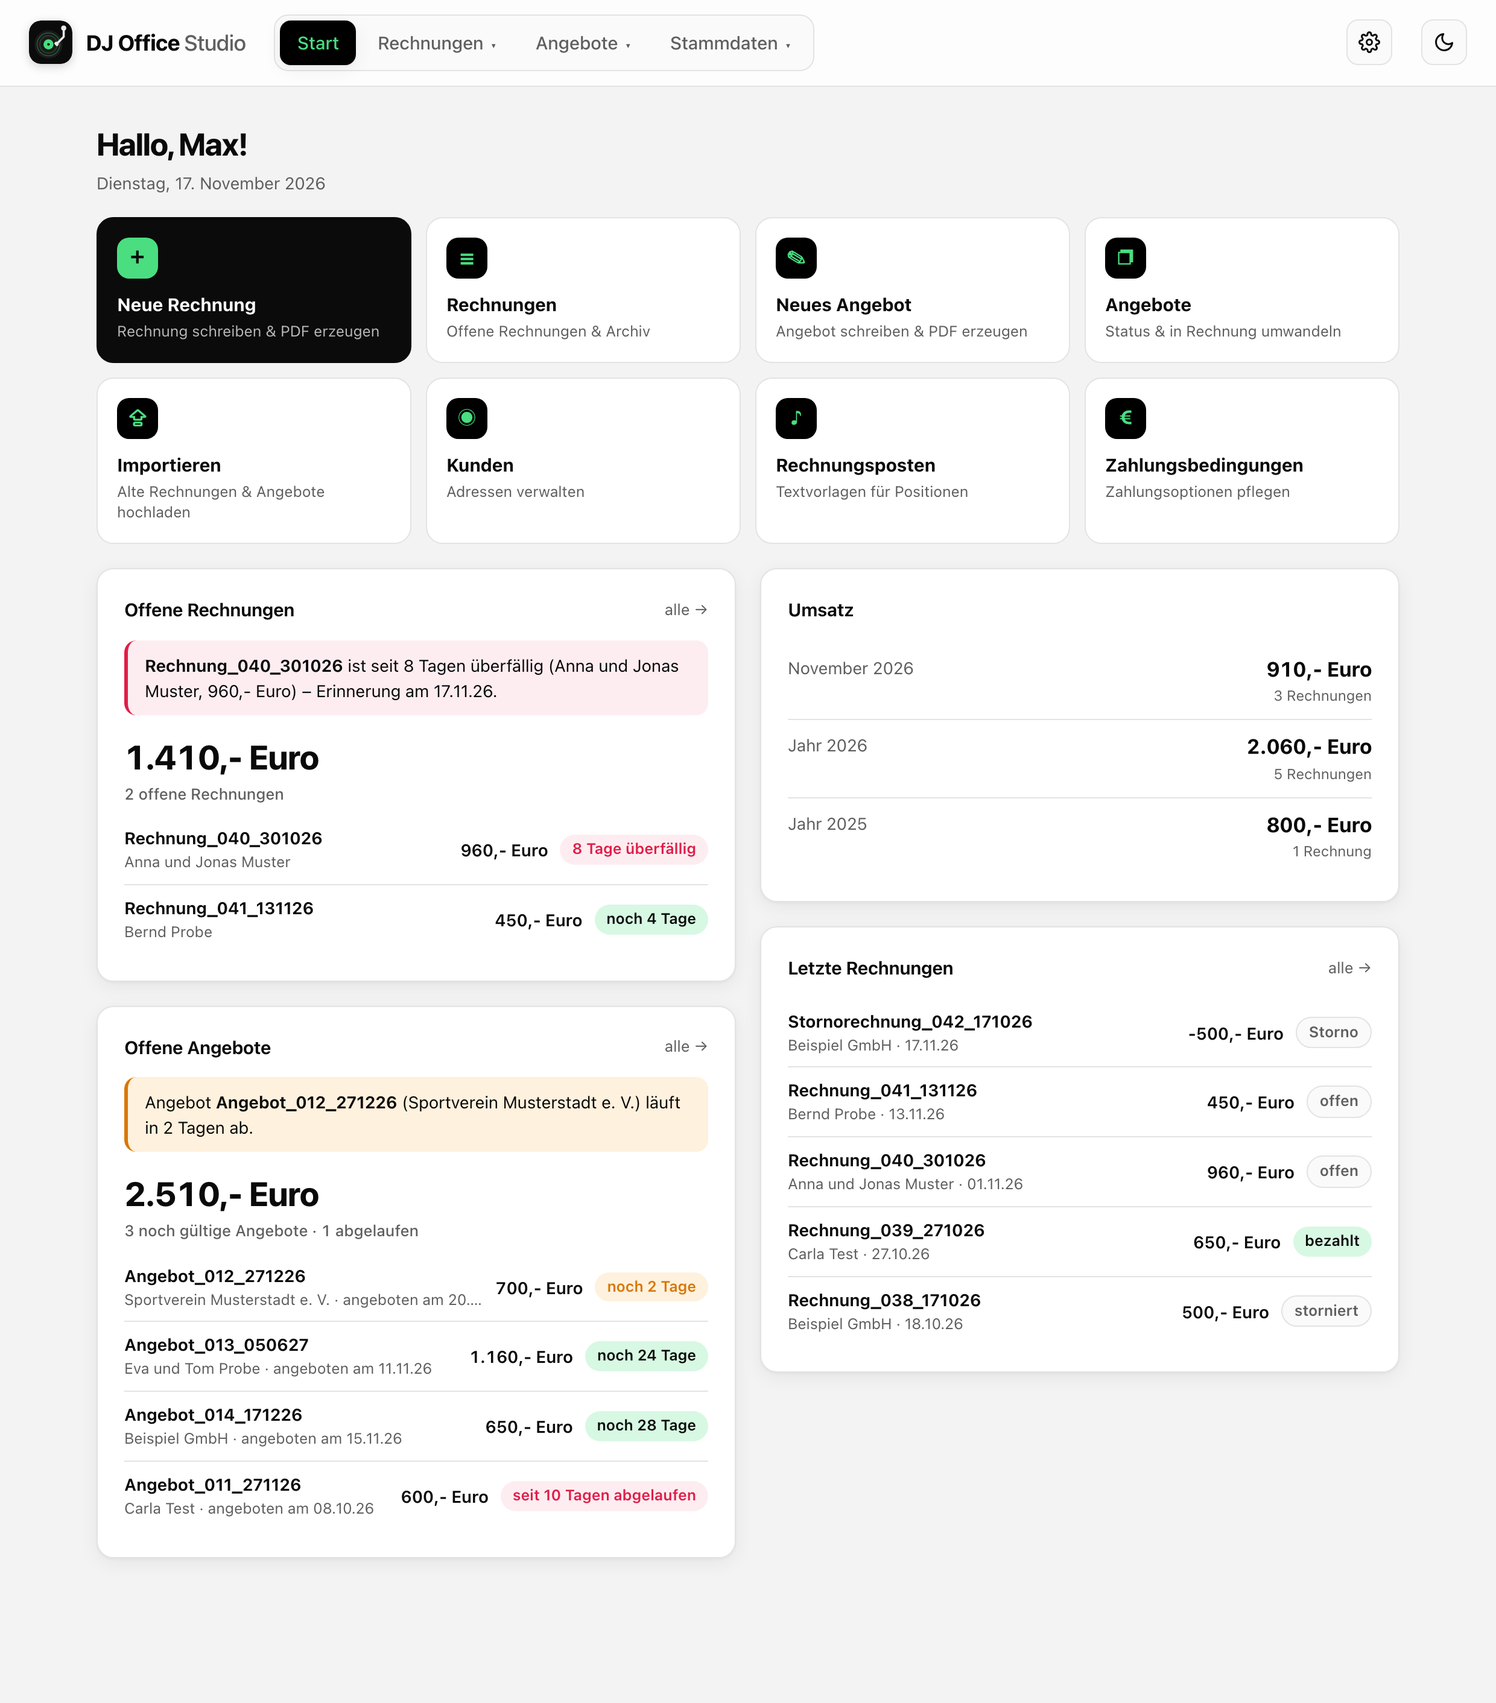
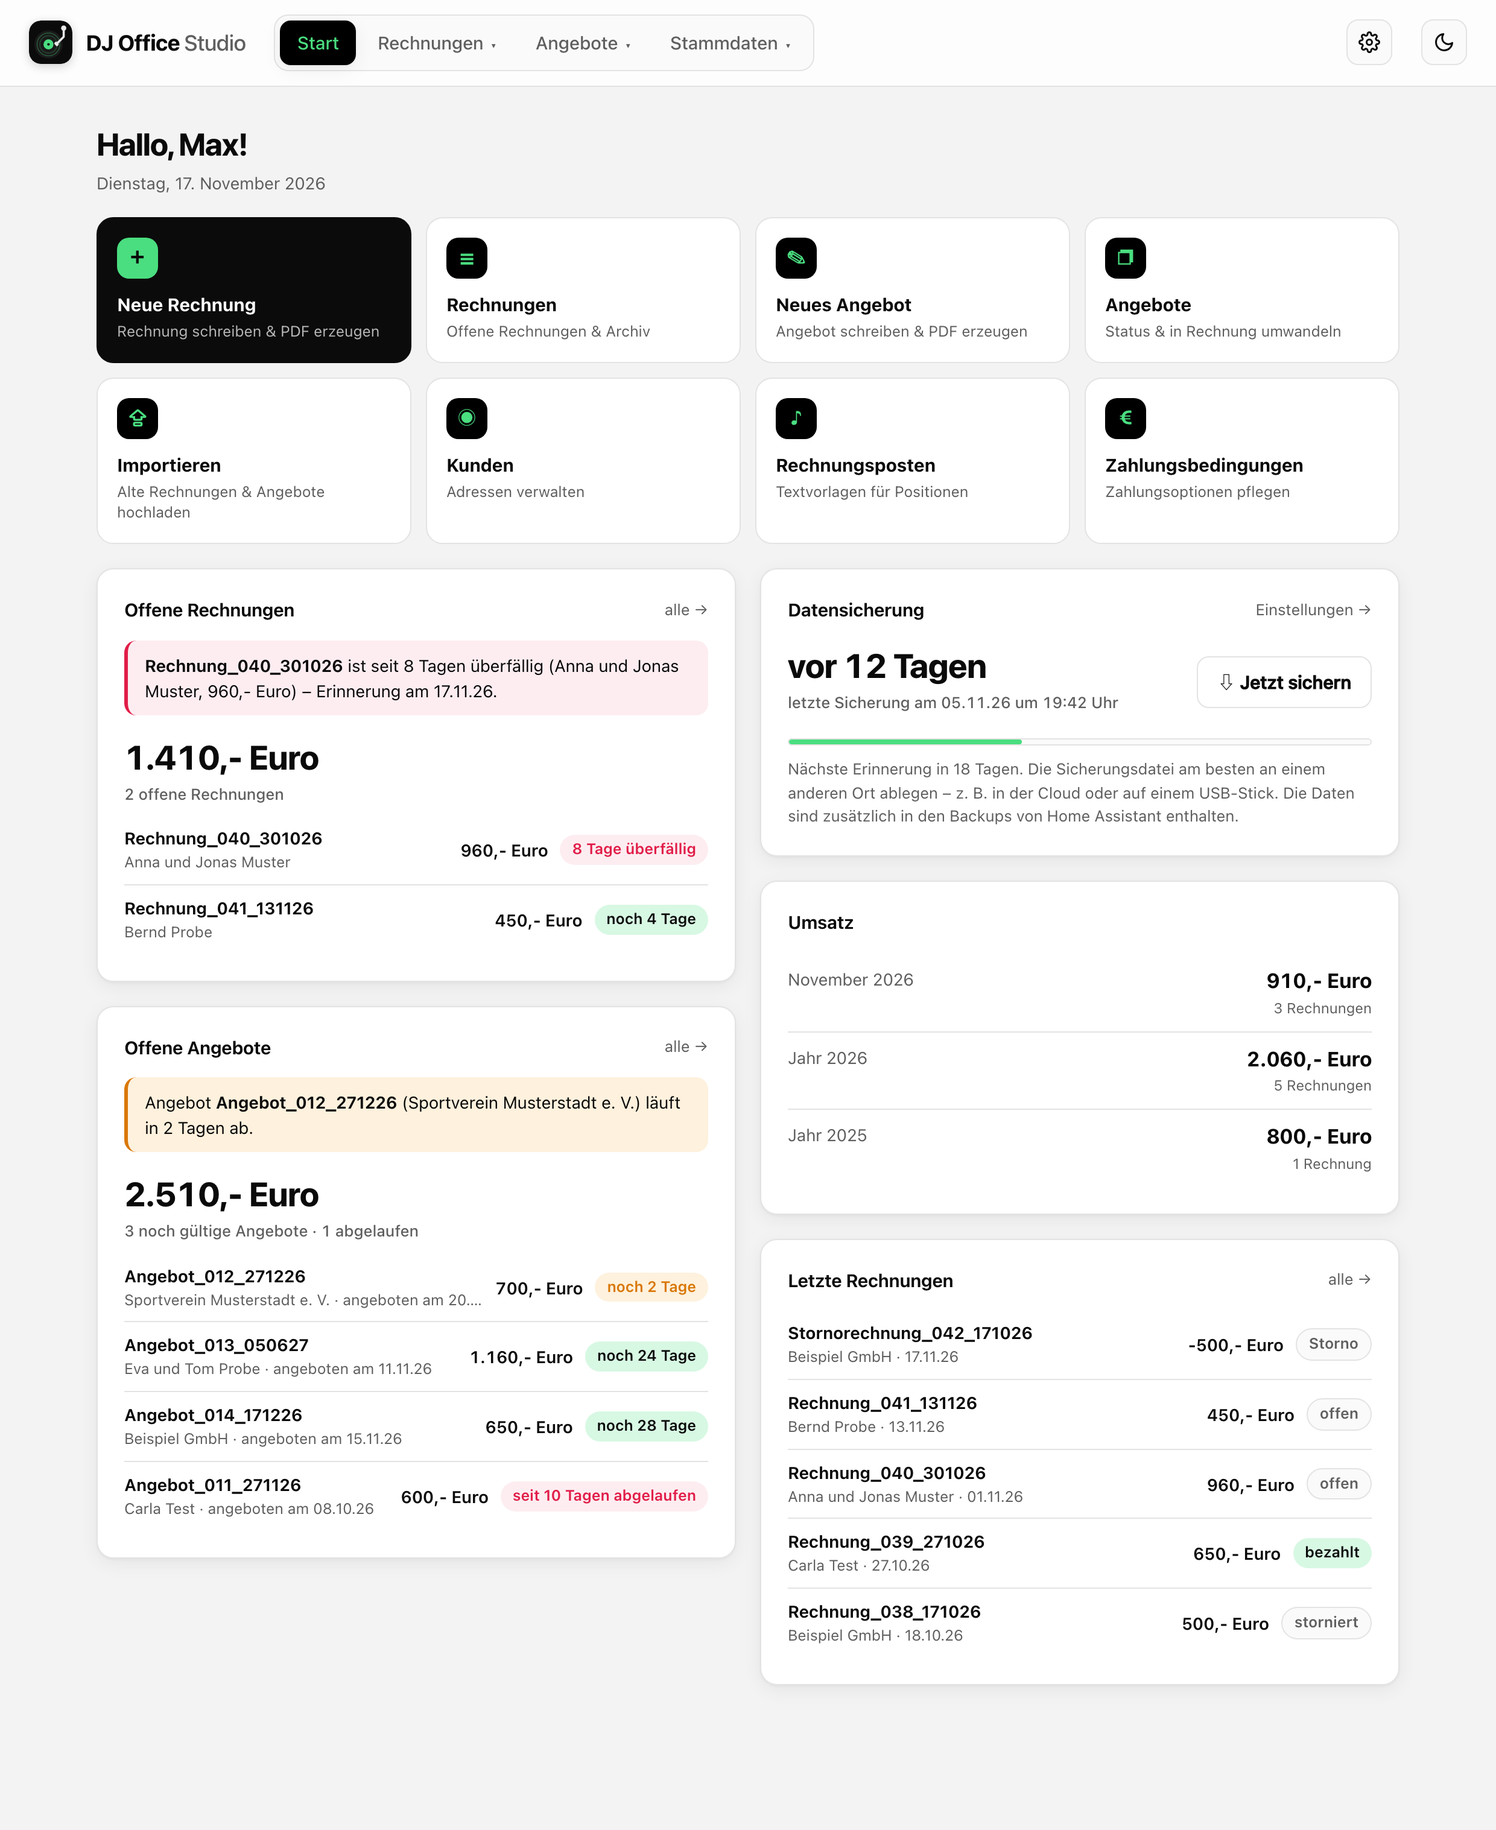
Startseite erinnert an Datensicherungen (Zeit seit letzter Sicherung, einstellbares Intervall), Version 0.14.0

diff --git a/rechnungen/app/static/app.js b/rechnungen/app/static/app.js
@@ -275,10 +275,16 @@ $("#mail-test").addEventListener("click", async e => {
   finally { btn.disabled = false; btn.innerHTML = vorher; }
 });
 
-$("#sicherung-btn").addEventListener("click", () => {
+/* Sicherung herunterladen; der Server merkt sich den Zeitpunkt → Startseite aktualisieren */
+function sicherungHerunterladen() {
   ladeHerunter("api/backup");
-  toast("Sicherung wird heruntergeladen …");
-});
+  toast("Sicherung wird heruntergeladen … Am besten an einem anderen Ort ablegen (Cloud, USB-Stick).");
+  setTimeout(async () => {
+    await ladeAbsender();
+    if ($("#tab-start").classList.contains("active")) renderSicherung();
+  }, 1500);
+}
+$("#sicherung-btn").addEventListener("click", sicherungHerunterladen);
 $("#export-btn").addEventListener("click", () => {
   ladeHerunter(`api/export?jahr=${$("#export-jahr").value}`);
   toast(`Export ${$("#export-jahr").value} wird heruntergeladen …`);
@@ -1645,6 +1651,35 @@ $("#tab-start").addEventListener("click", e => {
   }
 });
 
+const tageSeit = iso => Math.max(0, Math.round((heuteUtc() - isoToUtc(iso.slice(0, 10))) / TAG_MS));
+const tageText = n => n === 0 ? "heute" : n === 1 ? "gestern" : `vor ${n} Tagen`;
+
+/* Startseite: Zeit seit der letzten heruntergeladenen Sicherung, Erinnerung wenn fällig */
+function renderSicherung() {
+  const s = state.absender?.sicherung;
+  if (!s) return;
+  const intervall = Number(s.erinnerung_tage) || 0;
+  const hatDaten = state.rechnungen.length || state.angebote.length;
+  const tage = s.letzte ? tageSeit(s.letzte) : null;
+  const stufe = tage === null ? (hatDaten && intervall ? "rot" : "neutral")
+    : !intervall ? "gruen" : tage >= intervall ? "rot" : tage >= intervall * 0.75 ? "gelb" : "gruen";
+  const faellig = stufe === "rot";
+  $("#start-sicherung-karte").classList.toggle("faellig", faellig);
+  const auto = s.automatisch
+    ? `Automatische Tageskopie auf diesem Computer: ${tageText(tageSeit(s.automatisch))} ✓ – sie hilft aber nicht, wenn der Computer kaputtgeht oder verloren geht.`
+    : state.absender.desktop ? "" : "Die Daten sind zusätzlich in den Backups von Home Assistant enthalten.";
+  $("#start-sicherung").innerHTML = `
+    <div class="sicherung-status">
+      <div class="stat-gross ${stufe}">${tage === null ? "noch nie" : tageText(tage)}<small>${tage === null
+        ? "wurde eine Sicherung heruntergeladen" : `letzte Sicherung am ${fmtDate(s.letzte.slice(0, 10))} um ${s.letzte.slice(11, 16)} Uhr`}</small></div>
+      <button type="button" class="${faellig ? "" : "secondary"}" id="start-sichern">⇩ Jetzt sichern</button>
+    </div>
+    ${intervall && tage !== null ? `<div class="sicherung-balken ${stufe}" title="Erinnerung nach ${intervall} Tagen"><span style="width:${Math.min(100, tage / intervall * 100)}%"></span></div>` : ""}
+    <p class="hint">${faellig ? `<b>Zeit für eine neue Sicherung!</b> ` : intervall && tage !== null
+      ? `Nächste Erinnerung in ${intervall - tage} ${intervall - tage === 1 ? "Tag" : "Tagen"}. ` : ""}Die Sicherungsdatei am besten an einem anderen Ort ablegen – z. B. in der Cloud oder auf einem USB-Stick. ${auto}</p>`;
+  $("#start-sichern").addEventListener("click", sicherungHerunterladen);
+}
+
 async function renderStart() {
   const jetzt = new Date();
   const h = jetzt.getHours();
@@ -1655,9 +1690,10 @@ async function renderStart() {
     { weekday: "long", day: "numeric", month: "long", year: "numeric" });
 
   try {
-    [state.rechnungen, state.angebote] = await Promise.all([api("rechnungen"), api("angebote")]);
+    [state.rechnungen, state.angebote] = await Promise.all([api("rechnungen"), api("angebote"), ladeAbsender()]);
   } catch (e) { return toast("Laden fehlgeschlagen: " + e.message, true); }
   const alle = state.rechnungen;
+  renderSicherung();
 
   // Offene Angebote (Kurzfassung)
   const offeneAng = offeneAngebote();

diff --git a/rechnungen/app/static/style.css b/rechnungen/app/static/style.css
@@ -466,3 +466,15 @@ dialog.dialog h2 { margin-top: 0; }
 .versand-alternativ span { flex: 1; min-width: 180px; }
 button svg.ico { vertical-align: -3px; }
 #passwort-status a { color: var(--text); }
+
+/* ---------- Startseite: Datensicherung ---------- */
+.sicherung-status { display: flex; align-items: center; justify-content: space-between; gap: 12px; flex-wrap: wrap; }
+.sicherung-status .stat-gross.rot { color: var(--danger); }
+.sicherung-karte.faellig { border-color: var(--danger); box-shadow: 0 0 0 3px var(--danger-soft), var(--shadow); }
+.sicherung-balken { height: 6px; border-radius: 999px; background: var(--input-bg); border: 1px solid var(--border); overflow: hidden; margin: 12px 0 4px; }
+.sicherung-balken span { display: block; height: 100%; border-radius: 999px; background: var(--neon); }
+.sicherung-balken.gelb span { background: var(--gelb); }
+.sicherung-balken.rot span { background: var(--danger); }
+.sicherung-karte .hint { margin-top: 10px; }
+#tab-einstellungen .sicherung label.erinnerung { margin: 14px 0 0; }
+#tab-einstellungen .sicherung label.erinnerung input { width: 110px; display: block; }

diff --git a/rechnungen/app/static/index.html b/rechnungen/app/static/index.html
@@ -128,6 +128,10 @@
         </div>
 
         <div class="start-spalte">
+          <div class="card sicherung-karte" id="start-sicherung-karte">
+            <div class="row between"><h2>Datensicherung</h2><a href="#" class="mehr zu-einstellungen">Einstellungen →</a></div>
+            <div id="start-sicherung"></div>
+          </div>
           <div class="card">
             <h2>Umsatz</h2>
             <div id="start-umsatz" class="stat-liste"></div>
@@ -405,6 +409,8 @@
                 <button type="button" id="wiederherstellen-btn" class="secondary">⇪ Sicherung einspielen</button>
                 <input type="file" id="sicherung-datei" accept=".zip,.db" hidden>
               </div>
+              <label class="erinnerung">Auf der Startseite an eine Sicherung erinnern nach <span class="opt">(Tagen, 0 = nie)</span>
+                <input name="sicherung_erinnerung_tage" type="number" min="0" step="1"></label>
             </div>
             <div>
               <strong>Export für den Steuerberater</strong>

diff --git a/rechnungen/app/main.py b/rechnungen/app/main.py
@@ -43,6 +43,7 @@ FELDER = {
     "paperless_eingangsordner": (str, "" if DESKTOP else "/share/paperless/consume"),
     "update_pruefen": (bool, True),   # nur Desktop-Version: beim Start nach neuer Version suchen
     "mahnfrist_tage": (int, 7),       # Frist in Zahlungserinnerung/Mahnung (Tage ab Datum)
+    "sicherung_erinnerung_tage": (int, 30),   # Startseite erinnert an eine Sicherung nach so vielen Tagen (0 = nie)
     # E-Mail-Versand über das eigene Postfach (beliebiger Anbieter / eigener Server)
     "absender_email": (str, ""), "smtp_server": (str, ""), "smtp_port": (int, 587),
     "smtp_sicherheit": (str, "starttls"), "smtp_benutzer": (str, ""), "smtp_passwort": (str, ""),
@@ -150,8 +151,8 @@ def settings_put():
             except (TypeError, ValueError):
                 fehler.append(f"„{k}“ muss eine Zahl sein")
                 continue
-            if werte[k] < 1:
-                fehler.append(f"„{k}“ muss mindestens 1 sein")
+            if werte[k] < (0 if k == "sicherung_erinnerung_tage" else 1):
+                fehler.append(f"„{k}“ muss mindestens {0 if k == 'sicherung_erinnerung_tage' else 1} sein")
         elif k.startswith("mail_text_"):
             werte[k] = (v or "").rstrip() if (v or "").strip() else standard   # leere Vorlage → Standardtext
         else:
@@ -228,6 +229,7 @@ def get_absender():
                       "paperless": bool(a.get("paperless_installiert")),
                       "angebot_gueltigkeit_tage": a.get("angebot_gueltigkeit_tage") or 30,
                       "mail": mail.konfiguriert(a),
+                      "sicherung": _sicherung_status(a),
                       "version": APP_VERSION,
                       "desktop": DESKTOP})
 
@@ -497,6 +499,24 @@ def dunning_pdf(mahnung_id):
 
 # ---------- Datensicherung & Export ----------
 
+def _letzte_auto_sicherung():
+    """Desktop-Version: Datum der neuesten automatischen Tageskopie (Daten/Sicherungen/rechnungen_JJJJ-MM-TT.db)."""
+    if not DESKTOP:
+        return None
+    try:
+        namen = [n for n in os.listdir(os.path.join(db.DATA_DIR, "Sicherungen"))
+                 if re.fullmatch(r"rechnungen_\d{4}-\d{2}-\d{2}\.db", n)]
+    except OSError:
+        return None
+    return max(namen)[11:21] if namen else None
+
+
+def _sicherung_status(a):
+    return {"letzte": db.get_settings().get("_letzte_sicherung"),   # letzte heruntergeladene Sicherung
+            "erinnerung_tage": a.get("sicherung_erinnerung_tage", 30),
+            "automatisch": _letzte_auto_sicherung()}
+
+
 @app.get("/api/backup")
 def backup_download():
     """Komplette Datenbank als ZIP (Kunden, Rechnungen, Angebote, Einstellungen …)."""
@@ -509,6 +529,7 @@ def backup_download():
             zf.write(pfad, "rechnungen.db")
             zf.writestr("info.json", json.dumps({"app": "DJ Office Studio", "version": APP_VERSION,
                                                  "erstellt": datetime.now().isoformat(timespec="seconds")}))
+    db.save_settings({"_letzte_sicherung": datetime.now().isoformat(timespec="seconds")})   # für die Erinnerung
     name = f"DJ-Office-Studio-Sicherung_{date.today():%Y-%m-%d}.zip"
     return Response(buf.getvalue(), mimetype="application/zip",
                     headers={"Content-Disposition": f'attachment; filename="{name}"'})
@@ -539,7 +560,10 @@ def backup_restore():
         os.makedirs(ordner, exist_ok=True)
         vorher = os.path.join(ordner, f"vor-wiederherstellung_{datetime.now():%Y-%m-%d_%H-%M-%S}.db")
         db.sichern(vorher)
+        letzte = db.get_settings().get("_letzte_sicherung")
         db.wiederherstellen(pfad)
+        if letzte and letzte > (db.get_settings().get("_letzte_sicherung") or ""):
+            db.save_settings({"_letzte_sicherung": letzte})   # Zeitpunkt der letzten Sicherung nicht zurückdrehen
     return jsonify({"anzahl": anzahl, "vorher_gesichert": vorher})
 
 

diff --git a/tests/test_sicherung_export.py b/tests/test_sicherung_export.py
@@ -65,3 +65,30 @@ def test_export_fuer_steuerberater(client):
     assert "030" not in daten
     summe = next(z for z in zeilen if z and z[0].startswith("Summe"))
     assert summe[5] == "1410,00"   # 960 + 450 + 300 - 300
+
+
+def test_erinnerung_merkt_letzte_sicherung(client):
+    s = client.get("/api/absender").get_json()["sicherung"]
+    assert s == {"letzte": None, "erinnerung_tage": 30, "automatisch": None}
+    sicherung = client.get("/api/backup").data
+    letzte = client.get("/api/absender").get_json()["sicherung"]["letzte"]
+    assert letzte and letzte[:10] == __import__("datetime").date.today().isoformat()
+    # Einspielen einer (älteren) Sicherung dreht den Zeitpunkt nicht zurück
+    import db
+    db.save_settings({"_letzte_sicherung": "2099-01-01T10:00:00"})
+    client.post("/api/backup", data={"datei": (io.BytesIO(sicherung), "s.zip")}, content_type="multipart/form-data")
+    assert client.get("/api/absender").get_json()["sicherung"]["letzte"] == "2099-01-01T10:00:00"
+    # 0 = keine Erinnerung ist erlaubt, negative Werte nicht
+    assert client.put("/api/einstellungen", json={"sicherung_erinnerung_tage": 0}).status_code == 200
+    assert client.get("/api/absender").get_json()["sicherung"]["erinnerung_tage"] == 0
+    assert client.put("/api/einstellungen", json={"sicherung_erinnerung_tage": -1}).status_code == 400
+
+
+def test_desktop_kennt_automatische_sicherung(app_modul, client, tmp_path, monkeypatch):
+    monkeypatch.setattr(app_modul, "DESKTOP", True)
+    ordner = tmp_path / "Sicherungen"
+    ordner.mkdir(exist_ok=True)
+    for tag in ("2026-11-15", "2026-11-17", "2026-11-16"):
+        (ordner / f"rechnungen_{tag}.db").write_bytes(b"")
+    (ordner / "vor-wiederherstellung_2026-12-01_10-00-00.db").write_bytes(b"")
+    assert client.get("/api/absender").get_json()["sicherung"]["automatisch"] == "2026-11-17"

diff --git a/docs/screenshots.py b/docs/screenshots.py
@@ -36,6 +36,7 @@ db.save_settings({
 })
 c = main.app.test_client()
 heute = date.today()
+db.save_settings({"_letzte_sicherung": f"{heute - timedelta(days=12)}T19:42:00"})   # Startseite: Sicherung vor 12 Tagen
 d = lambda n: (heute + timedelta(days=n)).isoformat()   # noqa: E731
 ZB8 = "Bitte den Betrag innerhalb der nächsten 8 Tage auf das unten genannte Konto überweisen."
 K = {

diff --git a/README.md b/README.md
@@ -22,7 +22,7 @@ DJ Office Studio ist eine App zum Schreiben von DJ-Rechnungen und -Angeboten –
 - **Festschreiben & Storno**: Eine Rechnung lässt sich nur ändern oder löschen, solange sie nicht festgeschrieben ist. Festgeschrieben wird sie automatisch, sobald sie bezahlt, gemahnt oder an Paperless gesendet wird – oder per 🔒 von Hand (z. B. nach dem Versenden). Danach wird korrigiert, wie es steuerlich sein soll: per **Stornorechnung** mit eigener Nummer und negativen Beträgen.
 - **Zahlungserinnerung und Mahnungen**: Zu offenen Rechnungen per Klick eine Zahlungserinnerung, dann 1. und 2. Mahnung als PDF – mit Bezug auf die Rechnung, Fälligkeitsdatum und neuer Zahlungsfrist (Standard 7 Tage).
 - **E-Mail-Versand**: Rechnungen, Angebote, Zahlungserinnerungen und Mahnungen direkt aus der App per E-Mail verschicken – über das eigene Postfach, egal bei welchem Anbieter (Vorlagen für WEB.DE, GMX, Gmail, iCloud, T-Online & Co., aber auch jeder andere Anbieter oder eigene Mailserver). Empfänger kommt aus den Kundendaten, Betreff und Text aus anpassbaren Vorlagen, das PDF hängt automatisch an. Verschickte Belege tragen einen Vermerk „✉ Datum“, Rechnungen werden dabei festgeschrieben. Herunterladen (z. B. zum Weiterschicken per WhatsApp) geht wie bisher – direkt im selben Dialog.
-- **Datensicherung & Export**: Unter ⚙ Einstellungen alle Daten als eine Sicherungsdatei herunterladen bzw. wieder einspielen, und ein **Export für den Steuerberater** – alle Rechnungen eines Jahres als Excel-Tabelle (CSV, mit Bezahlt-Datum und Stornos) plus PDFs als ZIP. Die Desktop-Version sichert zusätzlich automatisch einmal pro Tag.
+- **Datensicherung & Export**: Unter ⚙ Einstellungen alle Daten als eine Sicherungsdatei herunterladen bzw. wieder einspielen; die Startseite zeigt, wie lange die letzte Sicherung her ist, und erinnert nach einstellbarer Zeit (Standard 30 Tage) an eine neue, und ein **Export für den Steuerberater** – alle Rechnungen eines Jahres als Excel-Tabelle (CSV, mit Bezahlt-Datum und Stornos) plus PDFs als ZIP. Die Desktop-Version sichert zusätzlich automatisch einmal pro Tag.
 - **Angebote**: Im selben Editor wie Rechnungen (Kunde, Rechnungsposten mit von/bis-Zeiten, Preise) – mit eigenem Nummernkreis, Angebotsdatum, **Gültig bis** (Bindefrist, Standard 30 Tage), optionaler Zahlungsbedingung und freien **Hinweisen** (z. B. Verlängerungsstunde, Leistungsumfang, GEMA). Das PDF hat dasselbe Layout wie die Rechnung (`Angebot_001_120627.pdf`). Oben in der Angebotsansicht und auf der Startseite: **Offene Angebote** mit Angebotsdatum und Restlaufzeit („noch 12 Tage“, „seit 3 Tagen abgelaufen“), auf der Startseite zusätzlich ein Hinweis, wenn ein Angebot in den nächsten 3 Tagen abläuft. In der Angebotsliste: mehrere markieren und als ZIP herunterladen oder an Paperless senden, Status (offen / angenommen / abgelehnt), Restlaufzeit bzw. „abgelaufen“ und **→ Rechnung**, das Kunde und Positionen in eine neue Rechnung übernimmt und das Angebot als angenommen markiert.
 - **Import alter Rechnungen und Angebote**: Bisherige PDFs hochladen (gemischt möglich – die App erkennt Rechnung oder Angebot selbst). Empfänger, Positionen und Vorschläge für Rechnungsposten werden erkannt und können übernommen werden, optional auch die Rechnungen selbst als Archiv und die Angebote (mit „gültig bis“ und Hinweisen) in die Angebotsliste.
 - **Stammdaten** für Kunden, Rechnungsposten und Zahlungsbedingungen.
@@ -144,7 +144,7 @@ Alternativ im Terminal: `xattr -dr com.apple.quarantine "/Applications/DJ Office
 | Kunden, Rechnungsposten, Zahlungsbedingungen, Rechnungen, Angebote, Einstellungen | SQLite-Datenbank `rechnungen.db` im App-Datenordner (`/data`) |
 | PDF-Kopien | Ordner aus den Einstellungen, standardmäßig `/share/rechnungen` (z. B. per Samba erreichbar) |
 
-Beides ist in den normalen Home-Assistant-Backups enthalten. Zusätzlich gibt es unter **⚙ Einstellungen → Datensicherung & Export** eine Sicherung zum Herunterladen und Einspielen (vor dem Einspielen sichert die App den bisherigen Stand automatisch unter `sicherungen/`).
+Beides ist in den normalen Home-Assistant-Backups enthalten. Die Startseite zeigt in der Karte **Datensicherung**, wann zuletzt eine Sicherung heruntergeladen wurde, und färbt sich rot, sobald die eingestellte Zeit (⚙ Einstellungen → Datensicherung & Export, Standard 30 Tage, 0 = keine Erinnerung) überschritten ist – mit **Jetzt sichern** direkt daneben. Zusätzlich gibt es unter **⚙ Einstellungen → Datensicherung & Export** eine Sicherung zum Herunterladen und Einspielen (vor dem Einspielen sichert die App den bisherigen Stand automatisch unter `sicherungen/`).
 
 In der **Desktop-Version** liegt alles im Dokumente-Ordner unter `DJ Office Studio`; die App legt dort in `Daten/Sicherungen` einmal pro Tag automatisch eine Kopie der Datenbank ab (die letzten 14 bleiben erhalten).
 

diff --git a/rechnungen/CHANGELOG.md b/rechnungen/CHANGELOG.md
@@ -2,6 +2,12 @@
 
 Alle Änderungen an DJ Office Studio. Neueste Version oben.
 
+## 0.14.0 – 2026-11-17
+
+### Neu
+- **Erinnerung an Datensicherungen** auf der Startseite: Die Karte „Datensicherung“ zeigt, wie lange die letzte heruntergeladene Sicherung her ist („vor 24 Tagen“), mit Fortschrittsbalken bis zur nächsten Erinnerung und Button **Jetzt sichern**. Ist die eingestellte Zeit überschritten (oder wurde noch nie gesichert), wird die Karte rot. Das Intervall lässt sich unter ⚙ Einstellungen → Datensicherung & Export ändern (Standard 30 Tage, 0 = keine Erinnerung).
+- Die Desktop-Version zeigt dort zusätzlich, wann die letzte automatische Tageskopie angelegt wurde.
+
 ## 0.13.0 – 2026-11-17
 
 ### Neu
